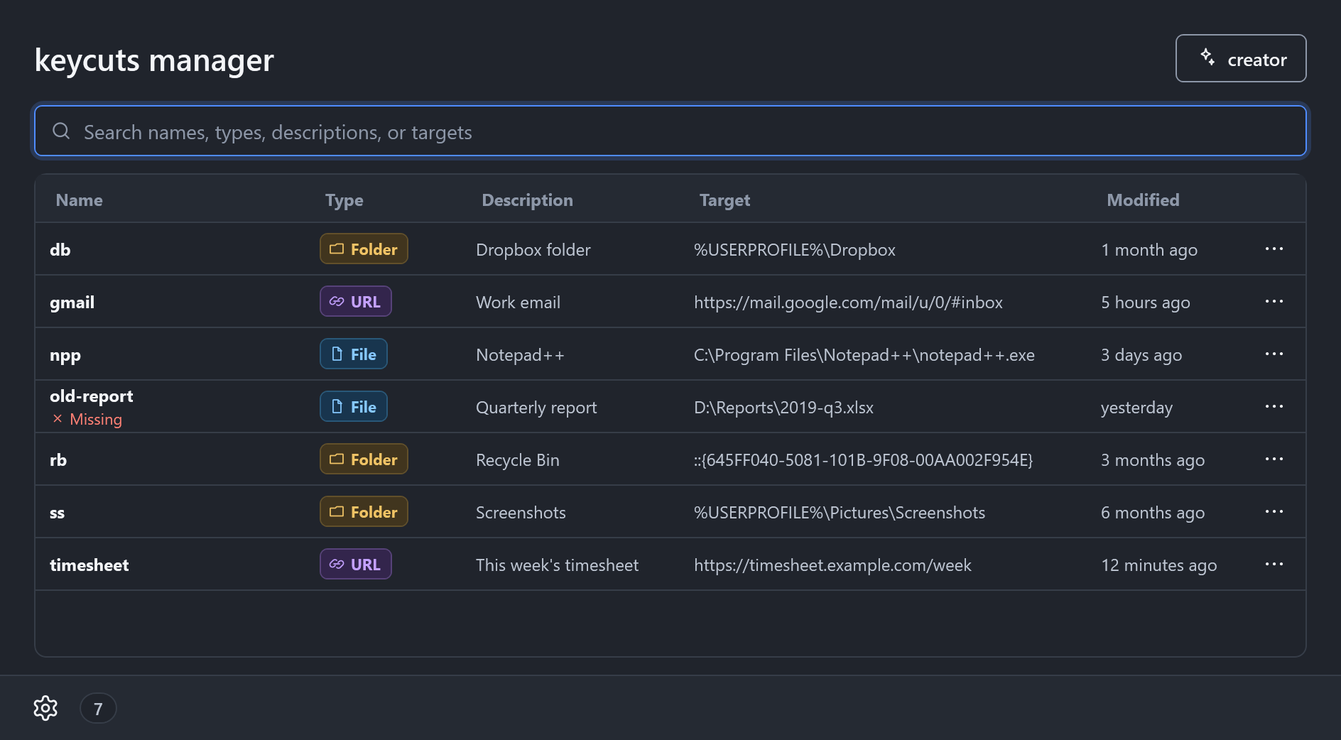
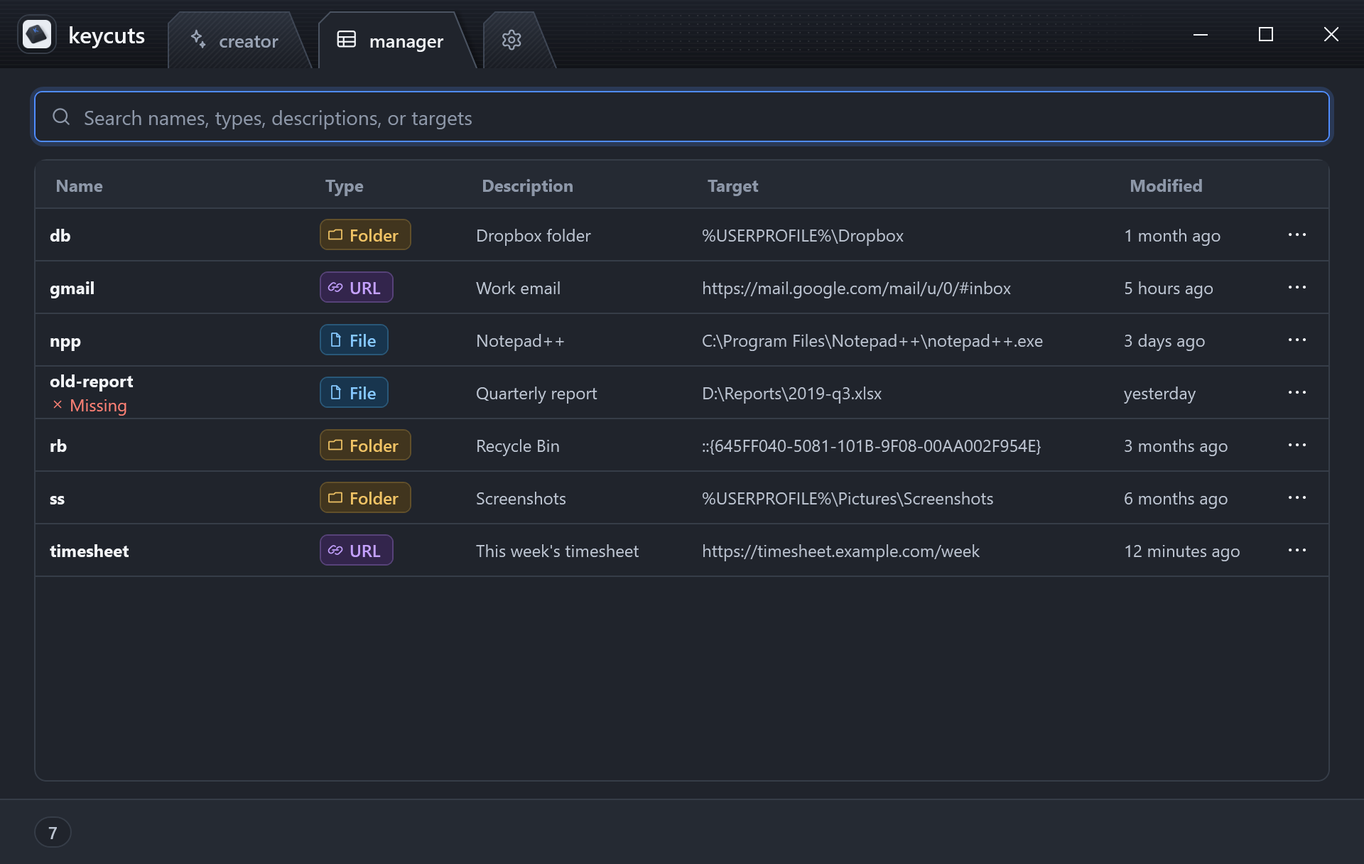
Docs and screenshots for Settings as a screen (#218)
The README, CLAUDE.md and the style guide describe Settings as a screen with no
Save button. The screenshots show each screen under the tab bar.

diff --git a/CLAUDE.md b/CLAUDE.md
@@ -18,7 +18,7 @@ Entry points for creating one: the WPF app (drag/paste/browse a target, name it,
 - On macOS/Linux: `dotnet build keycuts.sln -p:EnableWindowsTargeting=true` and `EnableWindowsTargeting=true dotnet format ...` work, but the tests can't run there (the test host needs the WPF runtime), so CI is the test run.
 - Format check: `dotnet format keycuts.sln --verify-no-changes --severity error` (keep it clean; without `--severity error` it also reports baseline warnings and exits non-zero)
 - Installer: `pwsh -File tools/Build-Installer.ps1 [-Version x.y.z] [-Runtime win-x64|win-arm64]` (the version defaults to `Directory.Build.props`, the runtime to `win-x64`) publishes self-contained to `artifacts/publish/<runtime>` and builds `artifacts/installer/<runtime>/keycuts-setup-<arch>.msi`. Each runtime has its own folders, so building one keeps the other; the WiX build is `--no-incremental` because both share `installer/obj`. Both MSIs share the upgrade code and `AllowSameVersionUpgrades`, so installing one replaces the other. Needs only the .NET SDK; WiX restores from NuGet. `installer/` is deliberately not in `keycuts.sln`, so normal builds stay fast. WiX builds into `en-US/` because of `Package.en-us.wxl`; the script moves the output back up. **Don't install a local MSI over a same-version release without checking the bundled .NET runtime.** The release MSI carries the runtime its CI image had (10.0.8 on 2026-11-12), the local build carries your SDK's (10.0.7), and over the release the install ended "successful" with 22 of 258 files: the newer runtime files were gone and the app host said "You must install .NET Desktop Runtime" (Windows Installer keeps a newer file over an older one, and the old product's removal then deletes it, as far as the logs and the file versions show). Compare `hostfxr.dll` in the two, uninstall the release first, or repair with `msiexec /fa <msi>`, which fixed it.
-- Screenshots: `pwsh -File tools/New-Screenshots.ps1` rewrites `docs/images` (the README's screenshots and its walkthrough GIF; `GifWriter`, in the test project, encodes the GIF, so nothing is downloaded). The GIF is the real creator taken through its states, rendered, not a screen recording, so its Win+R step is a caption card; don't present it as footage. It runs `ScreenshotTests` in Release, which renders the real views off screen with sample keycuts, light and dark, so it doesn't touch the keycuts folder, the registry or PATH. Settings is shown without its version row, the version and Check now (`SettingsViewModel.ShowVersionRow = false`), so a version bump changes no image. The test does nothing unless `KEYCUTS_SCREENSHOTS_OUT` is set (the script sets it), so a normal test run never writes. **Do this when preparing a release**, and when a change moves a screenshotted view; look at the images, then commit only what visibly changed (a rare run can differ in a pixel or two, for instance in the text caret; leave those out).
+- Screenshots: `pwsh -File tools/New-Screenshots.ps1` rewrites `docs/images` (the README's screenshots and its walkthrough GIF; `GifWriter`, in the test project, encodes the GIF, so nothing is downloaded). The GIF is the real creator taken through its states, rendered, not a screen recording, so its Win+R step is a caption card; don't present it as footage. It runs `ScreenshotTests` in Release, which renders the real views off screen with sample keycuts, light and dark, each under the tab bar with its tab selected (`HostWithTabs`; not the main window itself, whose own view models would read the real PATH), so it doesn't touch the keycuts folder, the registry or PATH. Settings is shown without its version row, the version and Check now (`SettingsViewModel.ShowVersionRow = false`), so a version bump changes no image. The test does nothing unless `KEYCUTS_SCREENSHOTS_OUT` is set (the script sets it), so a normal test run never writes. **Do this when preparing a release**, and when a change moves a screenshotted view; look at the images, then commit only what visibly changed (a rare run can differ in a pixel or two, for instance in the text caret; leave those out).
 - Mockups: `pwsh -File tools/Render-Mockup.ps1 -Html docs/mockups/<file>.html [-Out <png>]` renders a hand-written HTML sketch to PNG with the Edge or Chrome already installed (see `docs/mockups/`); a design change is sketched and approved this way before it is built.
 - Icons: `pwsh -File tools/New-AppIcons.ps1` rewrites `assets/icons` (see its README): each icon as a 16-256 px `.ico`, a PNG per size and a 1024 px PNG, drawn by `tools/icons/app-icon.html` with the keycap renderer `tools/icons/keycap.js` in headless Edge or Chrome (nothing downloaded) and cut up and packed by the script. Look at the PNGs (`app-icon.html?preview` shows every size on light and dark) and commit what changed; the app embeds five of the `.ico` files from there.
 
@@ -41,7 +41,7 @@ Gotchas:
 Four SDK-style projects in `keycuts.sln` (the old `keycuts.Batmanager` app was retired, and its manager is now a view inside the GUI; the `keypaste` project became `keycuts paste`, #97):
 
 - `keycuts.Common`: all domain logic, no UI. Resolves `.lnk` files through late-bound `WScript.Shell` COM (`Type.GetTypeFromProgID`), so there is no COM reference in the csproj.
-- `keycuts.GUI`: WPF, single window with two views (Creator, Manager) driven by `ViewModels/` (`ShellViewModel` switches views). The window has no Windows title bar (#218): its top row is `Views/RailView`, a bar of folder tabs (creator, manager, and the settings gear, which still opens the dialog until its screen lands) with our own minimize, maximize and close buttons. `WindowChrome` (`MainWindow.xaml`) makes the bar a caption, so drag, double click, snap and the window menu are Windows's; the tabs and caption buttons are `IsHitTestVisibleInChrome`. Things it needed that `WindowChrome` alone doesn't give, each found by asking the real window `WM_NCHITTEST` in `TabbedWindowTests`: `WindowCaptionHook` answers `HTMAXBUTTON` over our maximize button (Windows 11 shows snap layouts only then; the button's hover and press then come from non-client messages, `CaptionButtonState`; it only claims the point while maximize is enabled); the resize border is 0 on the fixed-size Creator (else WindowChrome shows resize cursors at its edge) and `WindowLayout.GetFrameThickness` on the Manager; a maximized window overhangs the work area by that frame thickness (8 at 100%, `SystemParameters.WindowResizeBorderThickness` is only 4), so `MainWindow.FitMaximizedWindow` pads the content and grows `CaptionHeight` by it. The tab list is a `RailTabControl` (a `TabControl` with only its headers in the template, so screen readers get a real tab list; Ctrl+Tab and Ctrl+Page Up/Down are left out, since #218 declined tab shortcuts). A selected tab's shadow is its own shape (`Shadow` in `RailTabItem`): an effect set from a trigger is shared by every tab and can't be frozen with a palette color in it, which fails across test threads. In tests the tab bar's names are in `RailView`'s name scope, so `Window.FindName` can't see them; and a `TabItem` gets its UI Automation peer from the tab list's peer, not `CreatePeerForElement`. Side-effects go through `IKeycutActions` so view models are testable. `Themes/` holds tokens, light/dark/high-contrast dictionaries and `ThemeManager`; `Controls/` has `Icon`, `TypeBadge`, `MenuButton`, `SortHeaderButton`, `SectionLabel` and `HelperText`. The look follows `docs/styleguide.md`: views use its tokens and the shared styles in `Themes/Controls.xaml` (`Heading`, `FieldLabel`, `SquareButton`, `DialogFooter`, `OverlaySheet`, `CardItem`...), never a literal size or color, and `StyleGuideTests` checks every XAML file that isn't on its `NotYetConverted` list (#219); take a file off that list once it follows the guide. Settings is a modal dialog (`SettingsWindow`) over `SettingsViewModel`, with no Cancel button: Escape closes it without saving through `OnKeyDown` (#192), like the close button; `RunnerSettingsStore` is its seam over `Settings`/`Runner`, and its toggles use the `ToggleSwitch` style. The Manager's Edit form (#180) is another modal dialog (`EditWindow` over `EditKeycutViewModel`), opened through `ManagerViewModel.ShowEditForm`, which the view sets, so tests fake it.
+- `keycuts.GUI`: WPF, single window with three screens (Creator, Manager, Settings) driven by `ViewModels/` (`ShellViewModel` switches them; `ShellMode`). The window has no Windows title bar (#218): its top row is `Views/RailView`, a bar of folder tabs (creator, manager, and the settings gear) with our own minimize, maximize and close buttons. `WindowChrome` (`MainWindow.xaml`) makes the bar a caption, so drag, double click, snap and the window menu are Windows's; the tabs and caption buttons are `IsHitTestVisibleInChrome`. Things it needed that `WindowChrome` alone doesn't give, each found by asking the real window `WM_NCHITTEST` in `TabbedWindowTests`: `WindowCaptionHook` answers `HTMAXBUTTON` over our maximize button (Windows 11 shows snap layouts only then; the button's hover and press then come from non-client messages, `CaptionButtonState`; it only claims the point while maximize is enabled); the resize border is 0 on the fixed-size Creator (else WindowChrome shows resize cursors at its edge) and `WindowLayout.GetFrameThickness` on the Manager; a maximized window overhangs the work area by that frame thickness (8 at 100%, `SystemParameters.WindowResizeBorderThickness` is only 4), so `MainWindow.FitMaximizedWindow` pads the content and grows `CaptionHeight` by it. The tab list is a `RailTabControl` (a `TabControl` with only its headers in the template, so screen readers get a real tab list; Ctrl+Tab and Ctrl+Page Up/Down are left out, since #218 declined tab shortcuts). A selected tab's shadow is its own shape (`Shadow` in `RailTabItem`): an effect set from a trigger is shared by every tab and can't be frozen with a palette color in it, which fails across test threads. In tests the tab bar's names are in `RailView`'s name scope, so `Window.FindName` can't see them; and a `TabItem` gets its UI Automation peer from the tab list's peer, not `CreatePeerForElement`. Side-effects go through `IKeycutActions` so view models are testable. `Themes/` holds tokens, light/dark/high-contrast dictionaries and `ThemeManager`; `Controls/` has `Icon`, `TypeBadge`, `MenuButton`, `SortHeaderButton`, `SectionLabel` and `HelperText`. The look follows `docs/styleguide.md`: views use its tokens and the shared styles in `Themes/Controls.xaml` (`Heading`, `FieldLabel`, `SquareButton`, `DialogFooter`, `OverlaySheet`, `CardItem`...), never a literal size or color, and `StyleGuideTests` checks every XAML file that isn't on its `NotYetConverted` list (#219); take a file off that list once it follows the guide. Settings is the third screen (#218), `Views/SettingsView` over `SettingsViewModel`, made fresh by the shell's `settingsFactory` each time it opens (`App.xaml.cs` wires the pickers, `ThemeManager.SetPreference` and the restore-defaults confirmation; tests pass fakes, and a shell without a factory can't open Settings). There is no Save button: every toggle, the theme and the icon are stored the moment they change (`Store`, which writes everything with the folder as last committed), and the output folder only when committed (`CommitOutputFolder`: Enter, leaving the box, or a pick from the folder button) after validation, so a half-typed folder never reaches a toggle's save. A partial failure (PATH, the menu) shows as `SaveError`. The view model's `Stored`, `OutputFolderChanged`, `ShowWelcomeRequested` and `UpdateChecked` events are how the shell keeps the creator's environment-variables preview, the count and the update line in step; that used to happen when the dialog closed. **restore defaults** (`Settings.Defaults()`, `Settings.DefaultAppIcon`) asks in `ConfirmWindow` (`ConfirmViewModel.ForRestoreDefaults`), never touches the output folder (or PATH) and stores once. Escape on Settings closes the icon picker if it is open, else returns to the creator (`ShellViewModel.HandleEscape`), since nothing there is unsaved. The window gives Settings MainWidth and its content's height, capped to the work area (`MaxHeight`), so the page scrolls on a short screen; only the Manager's size is remembered. `RunnerSettingsStore` is its seam over `Settings`/`Runner`, and its toggles use the `ToggleSwitch` style. In tests, its names are in the view's name scope (the tests host it in a `SettingsHost` window). The Manager's Edit form (#180) is another modal dialog (`EditWindow` over `EditKeycutViewModel`), opened through `ManagerViewModel.ShowEditForm`, which the view sets, so tests fake it.
 - `keycuts.CLI`: assembly is named **`keycuts.exe`**, not `keycuts.CLI.exe`. Uses CommandLineParser 2.9.1 with two verbs: `create` (`Options`, the default verb, so `keycuts -t … -s …` needs no verb name; the target option was `-d`/`--destination` until #195 renamed it, and the old spelling is rejected, not aliased) calls `Runner` directly and has no description option; `paste <name>` (`PasteOptions`, #97, formerly the `keypaste` project) runs `KeycutPaste.Run` in Common and sets the clipboard through Win32 (`WindowsClipboard`), so nothing in the solution uses WinForms. PATH gets only the install folder's `bin\` (`BINFOLDER` in `installer/Package.wxs`, harvested separately from the rest), never the install folder itself, which would put the self-contained runtime's DLLs and `createdump.exe` on PATH; this is VS Code's `bin\code.cmd` pattern. It holds two shims from `keycuts.CLI/shims/` (copied to `bin\` by a `Link`): `keycuts.cmd` (`@"%~dp0..\keycuts.exe" %*`) and `keypaste.cmd` (`... paste %*`), so `keypaste <name>` still works. A bare `keycuts` (no arguments) starts `keycuts.GUI.exe` from the same folder (`GuiLauncher`), so Win+R opens the app; any argument keeps it the CLI, and a CLI-only copy with no GUI beside it prints help as before. `Usage` builds the help: `-h`/`--help` and `--version` print to stdout and exit 0, and a parse error or a create missing `-d`/`-s` prints a short reason to stderr and exits `BadArguments` (1). `keycuts.exe` can't move into `bin\` itself: a self-contained apphost needs its runtime in its own folder. `.gitattributes` keeps the shims CRLF.
 - `keycuts.Tests`: references Common and GUI; covers creation, repository, resolver, view models, accessibility, sample data.
 
@@ -59,7 +59,7 @@ The newer code wraps the legacy code rather than replacing it. Every create ends
 ## Surprises and known landmines
 
 - **The Missing mark (#203)** means "a specific path was looked for and isn't there"; anything the check couldn't pin down stays Unknown, which shows no label. `KeycutRepository.CheckTargetsAsync` looks for `Keycut.Program` (the target when that is empty), with environment variables expanded, and records what it looked for on `Keycut.CheckedPath`, which the tooltip shows (`Not found: C:\Program Files (x86)\...`). A program with no folder (`chrome`, `notepad.exe`) is looked for the way Windows looks, through `NameConflicts.Find` (Windows folder, System32, machine then user PATH with every PATHEXT extension, App Paths). For `START "" /D "<folder>" <program>` (`Keycut.StartInFolder` and `ProgramName`, kept apart from the joined `Program`) the rule comes from experiments with a harmless program, through `cmd /c file.bat` and ShellExecute alike (`KeycutRepository.CheckStartIn`): the `/D` folder is searched when it exists; a program found by name in the Windows folder, System32 or PATH works only if the folder exists, since START stops with "The current directory is invalid"; a program only in App Paths works whatever the folder is, because START hands a name it can't resolve itself to ShellExecute, which finds it there and does without the working directory. So a launcher naming a `Program Files (x86)` folder that doesn't exist still works for Chrome, which registers itself in App Paths, so the Chrome launchers aren't Missing: with a start-in folder that doesn't exist they get `TargetStatus.Warning`, a yellow "Warning" marker (`WarningBrush`, a dark amber in Light) whose tooltip is `Keycut.CheckedDetail`. A program found by name with a missing folder is Missing even when App Paths has it too (checked: the search by name comes first, and START stops). Missing is "none of those finds it, or START can't get it started", and `Keycut.CheckedDetail` says what was searched. A program given as a full path (with or without `/D`) isn't searched for, so it stays a plain exists check; `KeycutRepository`'s optional third constructor argument is that lookup environment, so tests never read the real PATH or registry, and it is read once per run and only when a keycut has a bare name. Text that can't be a path (a quote, a wildcard, `<`, `>`, `|`; note `Path.GetInvalidPathChars()` lacks the quote in .NET), and a bare name whose extension PATHEXT doesn't list, are Unknown. A File's type stays File whatever its arguments.
-- **Name warnings (#153).** `NameConflicts.Find` (pure, every input injectable through `NameConflictEnvironment`) lists what else a name opens from Win+R, in `ShellExecuteEx` order: the Windows folder, System32, machine then user PATH (each with every PATHEXT extension), then App Paths. A match before the output folder hides the keycut, one after it is shadowed; the keycut's own `.bat` is skipped, and an output folder not on PATH counts as the last entry. `NameCheck.Run` adds the existing keycut, but only while "Ask before replacing a keycut" is on. The GUI asks in `ConfirmWindow` (built like `SettingsWindow`, apart from its width; a test compares them) through `CreatorViewModel.ConfirmName` and `ManagerViewModel.ConfirmRename`; the CLI asks through `CreateConfirmation.Decide` and exits `ConfirmationNeeded` (14) with redirected input. The setting is `AskBeforeReplacing` in `HKCU`; until it's saved, the old `ForceOverwrite` value decides, inverted (`RegistryStuff.ResolveAskBeforeReplacing`).
+- **Name warnings (#153).** `NameConflicts.Find` (pure, every input injectable through `NameConflictEnvironment`) lists what else a name opens from Win+R, in `ShellExecuteEx` order: the Windows folder, System32, machine then user PATH (each with every PATHEXT extension), then App Paths. A match before the output folder hides the keycut, one after it is shadowed; the keycut's own `.bat` is skipped, and an output folder not on PATH counts as the last entry. `NameCheck.Run` adds the existing keycut, but only while "Ask before replacing a keycut" is on. The GUI asks in `ConfirmWindow` (built from the shared dialog styles, which a test checks) through `CreatorViewModel.ConfirmName` and `ManagerViewModel.ConfirmRename`; the CLI asks through `CreateConfirmation.Decide` and exits `ConfirmationNeeded` (14) with redirected input. The setting is `AskBeforeReplacing` in `HKCU`; until it's saved, the old `ForceOverwrite` value decides, inverted (`RegistryStuff.ResolveAskBeforeReplacing`).
 
 - `ShortcutType.Command` is still never produced by a create: `Shortcut.GetShortcutTypeFromTarget` never returns it. The emitter writes `START "" /B cmd /C "<command>"` for it, which the regex fallback reads back as Command (`IsEmittedCommand`, an exact inverse tried before the unanchored Explorer patterns). A `START "" /B "<anything>"` line still reads as File, because File is tried before Command.
 - The emitter's launch line (`Runner.BuildCommand`) is a `switch` with no discard arm, so adding a `ShortcutType` without a case is a build error (CS8509). `Unknown` throws.
@@ -70,7 +70,7 @@ The newer code wraps the legacy code rather than replacing it. Every create ends
 - **Nothing needs elevation.** Context-menu verbs live in `HKCU\Software\Classes` (`ContextMenuRegistrar`, handler resolved from `AppContext.BaseDirectory`). Never write through `Registry.ClassesRoot`: it resolves to `HKLM` for these keys, and that write crashed the Settings window. The MSI writes the same keys in `installer/Package.wxs`, and a test compares the two lists.
 - The Settings toggle shows whether the verbs exist, not the `RightClickContextMenu` value. That value only records the user's choice, so an MSI upgrade doesn't re-add a menu they turned off.
 - The first-run welcome panel (`WelcomeViewModel`, on `CreatorViewModel.Welcome`) decides once, from the shell's first keycut count: it shows when `WelcomeDismissed` is unset in `HKCU` (the first run, upgrades included) or the folder is empty, and Settings → Show welcome calls `ShellViewModel.ShowWelcome`. It has no form of its own (#213): it offers three bubbles (`WelcomeExample`: `g` for google.com, `dl` for the Downloads folder, `kc` for keycuts itself, in that order; the app's own path is `Environment.ProcessPath`, so a Debug run makes one to the Debug exe; the name is `kc`, not `keycuts`, which would clash with the CLI's command on PATH), and a bubble puts its full target (a bare program name isn't a target the resolver accepts) and name in `CreatorViewModel`'s own fields and focuses Name, for the creator's Create button to make. When the panel opens, `CreatorViewModel` picks the first bubble, but only into an empty form, so a target the Explorer verb passed in stays; a bubble the user clicks replaces the fields. Got it clears the fields only if a bubble filled them. After any create while the panel shows, `CreatorViewModel` calls `WelcomeViewModel.OnKeycutCreated`, which marks the welcome as used and shows how to open the keycut; none of the panel's messages names the keycut. It is wired up only in `App.xaml.cs`; tests pass fakes for the HKCU read/write and a `CreatorViewModel` without one shows no panel. GUI creates never change PATH, so after a create the panel checks `UserPathUpdater.IsOnPath` for the output folder (registry user and machine PATH, as Win+R sees them) and offers **Add to PATH** if needed; with the Debug `KEYCUTS_OUTPUT_FOLDER` override it skips that check, so it never writes PATH.
-- **The app icon (Settings, Icon).** Seven choices (`AppIconChoice` in Common, saved by name as `AppIcon` in `HKCU`; an unknown value is the default): Black & White (Porcelain in light mode, Onyx in dark) and Accent (Cobalt in light, Twilight in dark) follow the theme, the rest never change, and Classic is the old Team Ralon icon. `Themes/AppIcons` holds the options and their names and descriptions (the owner's wording; a test pins them), and `AppIconManager` sets `Window.Icon` on every window as it loads and again when `ThemeManager.Applied` changes the drawing, so the title bar, the taskbar button and Alt+Tab follow at once (checked on Windows 11: a running, unpinned button redraws). High contrast picks light or dark by its window color. Unlike the rest of Settings, a pick applies and is saved at once (`IAppIconService`; tests pass a fake or get `InMemoryAppIconService`), so Escape and closing undo nothing. The picker is an overlay in `SettingsWindow` that disables the rest of the window while open (Tab stays in it, Enter can't press Save); its group style drops the stock 5 px indent, without which the second card of a row wraps. The exe's own icon (Explorer, Installed apps) and the MSI's are Porcelain and can't change at run time. The shortcuts can: `ShortcutIcons.PointAt` rewrites the icon of every `.lnk` in the Start menu, the desktop and the pinned-taskbar folder whose target is the running exe (so a Debug build never touches the installed app's) to `icons\<name>.ico` beside the exe, then calls `SHChangeNotify`; Windows may take a while to redraw a pinned button, and nothing restarts Explorer or clears the icon cache. It runs at start too, so a shortcut an upgrade recreated gets the icon back. Tests make their own `.lnk` files in a temp folder.
+- **The app icon (Settings, Icon).** Seven choices (`AppIconChoice` in Common, saved by name as `AppIcon` in `HKCU`; an unknown value is the default): Black & White (Porcelain in light mode, Onyx in dark) and Accent (Cobalt in light, Twilight in dark) follow the theme, the rest never change, and Classic is the old Team Ralon icon. `Themes/AppIcons` holds the options and their names and descriptions (the owner's wording; a test pins them), and `AppIconManager` sets `Window.Icon` on every window as it loads and again when `ThemeManager.Applied` changes the drawing, so the title bar, the taskbar button and Alt+Tab follow at once (checked on Windows 11: a running, unpinned button redraws). High contrast picks light or dark by its window color. Like every setting since #218, a pick applies and is saved at once (`IAppIconService`; tests pass a fake or get `InMemoryAppIconService`), so Escape and closing the picker undo nothing. The picker is an overlay in `SettingsView` that disables the page while open (Tab stays in it), and the tabs too (`ShellViewModel.AreTabsEnabled`), but not the caption buttons or dragging; its group style drops the stock 5 px indent, without which the second card of a row wraps. The exe's own icon (Explorer, Installed apps) and the MSI's are Porcelain and can't change at run time. The shortcuts can: `ShortcutIcons.PointAt` rewrites the icon of every `.lnk` in the Start menu, the desktop and the pinned-taskbar folder whose target is the running exe (so a Debug build never touches the installed app's) to `icons\<name>.ico` beside the exe, then calls `SHChangeNotify`; Windows may take a while to redraw a pinned button, and nothing restarts Explorer or clears the icon cache. It runs at start too, so a shortcut an upgrade recreated gets the icon back. Tests make their own `.lnk` files in a temp folder.
 - **Update check (#171).** `UpdateChecker` (Common) asks `GitHubReleaseSource` for `/releases/latest` at most once a day on GUI start (`UpdateNoticeViewModel.CheckOnStartupAsync`, after the window shows) and stores the result in `HKCU` (`LastUpdateCheck`, `LatestReleaseSeen`, `DismissedRelease`), so the footer line shows on every start, not only after a request. `LatestReleaseSeen` is one `REG_MULTI_SZ` (line 1 the version, line 2 the URL), because one `SetValue` is atomic and two values could mix two releases across app windows (#191); it holds what GitHub last reported, never the installed version (that is `Runner.Version`, and the MSI's Uninstall entry). A value that isn't exactly two non-empty lines counts as never checked. The pre-#191 `LatestVersion`, `LatestReleaseUrl` and `DismissedUpdateVersion` are never read; writing either new value deletes them (`RegistryStuff.LegacyUpdateKeyNames`). Versions compare by three parts (`UpdateChecker.Normalize`): `Runner.Version` has four, and `1.2.0 < 1.2.0.0` in .NET. The release URL is opened in the browser, so anything that isn't an https page of this repository (`GitHubReleaseSource.IsReleasePage`) becomes the releases page. GitHub rejects API calls without a `User-Agent`. The CLI never checks. Tests use `FakeReleaseSource` and `FakeUpdateState` (`UpdateFakes`); never `UpdateChecker.CreateDefault()`, which reaches the network and `HKCU`.
 - Windows 11 shows these classic verbs under "Show more options". The top-level menu needs a packaged `IExplorerCommand` handler.
 - `OUTPUTFOLDER` in `installer/Package.wxs` is a directory so the stock `InstallDirDlg` can edit it, which means Windows Installer stores it with a trailing backslash; `RegistryStuff.GetOutputFolder` trims that. The dialog only shows on a first install. Windows Installer has no standard directory for the profile, so the default comes from `[%USERPROFILE]`; a test compares it to `Runner.DefaultOutputFolder`.

diff --git a/docs/styleguide.md b/docs/styleguide.md
@@ -2,7 +2,7 @@
 
 How the keycuts app looks and reads: spacing, layout, type, color, control sizes, corner radii, icons, headings and accessibility, and writing. It covers every screen and dialog: the main window's tab bar and its three screens (the Creator, the Manager and Settings, with its icon picker), the Edit and Confirm dialogs, the shared footer and the welcome panel.
 
-**It describes the app as it will be after #218**, which makes Settings a third screen in the main window, behind folder tabs that replace the title bar. Rules for the Settings dialog, the screen headings and the footer's gear apply until #218 removes them; the [Tabbed window](#tabbed-window-218) section says what changes. #218's mockup (`window-tabs-v5`) is a picture of the layout; where its sizes, colors or type differ from this guide, the guide wins.
+**It describes the app after #218**, which made Settings a third screen in the main window, behind folder tabs that replace the title bar; the [Tabbed window](#tabbed-window-218) section describes them. #218's mockup (`window-tabs-v5`) is a picture of the layout; where its sizes, colors or type differ from this guide, the guide wins.
 
 Each rule names the token or shared style that carries it. A view uses those, never a literal number, font size or color. Where the app doesn't follow a rule yet, #219 lists the change (see [Tracking](#tracking)).
 
@@ -96,7 +96,7 @@ Every screen and dialog body has **16 at the top and 24 at the sides and bottom*
 
 ### Dialog footer
 
-Edit and Confirm end in the same footer, one shared style, `DialogFooter`: `SurfaceSubtleBrush` background, a 1px top border in `BorderBrush`, `Padding="24,12"` (`DialogFooterPadding`), buttons right-aligned with 8 between them. The primary button is **last, at the far right**, and cancel comes before it ([decision](#decisions)). A secondary action that isn't cancel sits at the left edge. Enter presses the primary button (`IsDefault`) and Escape cancels (`IsCancel`). Until #218, the Settings dialog uses it too, with show welcome at the left and save at the right. The body above the footer scrolls when the window is capped to the screen, and the footer never does.
+Edit and Confirm end in the same footer, one shared style, `DialogFooter`: `SurfaceSubtleBrush` background, a 1px top border in `BorderBrush`, `Padding="24,12"` (`DialogFooterPadding`), buttons right-aligned with 8 between them. The primary button is **last, at the far right**, and cancel comes before it ([decision](#decisions)). A secondary action that isn't cancel sits at the left edge. Enter presses the primary button (`IsDefault`) and Escape cancels (`IsCancel`). The body above the footer scrolls when the window is capped to the screen, and the footer never does.
 
 ### Window widths
 
@@ -104,13 +104,9 @@ Edit and Confirm end in the same footer, one shared style, `DialogFooter`: `Surf
 - **The Manager**: resizable, and remembers its size.
 - **Confirm**: 440 (`ConfirmWidth`); **Edit**: 480 (`EditWidth`). They keep their widths while the main window grows ([decision](#decisions)). Dialogs size to their content's height (`SizeToContent="Height"`) and can't be resized.
 
-Until #218 the main window is 440 and the Settings dialog 500.
-
 ### The app footer
 
 All three screens end in `FooterView`. It is 48 high at least (`MinHeight`, today 46), with `Padding="24,0"` and a top border in `BorderBrush`, on `SurfaceSubtleBrush`. Left to right: the count pill, the screen's message (the Manager's undo and status line), and the update line, right-aligned. Gaps are 8 between controls and 12 before the message.
-
-Until #218, the footer starts with the Settings gear (a 32 ghost button) and its padding is 16, so the gear's glyph, 6 inside its button, lines up with the content at about 24.
 
 ### Inset panels
 
@@ -228,7 +224,7 @@ In `Controls.xaml`, used by every window. Window-local copies (`SectionLabel` in
 | Text box | 36 high | `AppTextBox`, `InputHeight` (views stop setting `Height="38"`) |
 | Text button (primary or secondary) | 36 high, `Padding="12,0"` | `BaseButton`, `ControlHeight` |
 | Icon-only button with a border or fill, beside a text box or in the drop area (Create, Browse, and Settings' choose a folder and open the output folder, which never show text; [decision](#decisions)) | 36 × 36 | `SquareButton` (new, based on `SecondaryButton`/`PrimaryButton`), `ControlHeight` |
-| Ghost icon button (no border: dismiss, sheet close, row menu; the footer's Settings until #218) | 32 × 32 | `IconButton`, `IconButtonSize` |
+| Ghost icon button (no border: dismiss, sheet close, row menu) | 32 × 32 | `IconButton`, `IconButtonSize` |
 | Text box editing inside a Manager row (rename, description) | 30 high | The **only** 30; it has to fit a 36 row |
 | Manager table: header / row | 36 / 36 (40 if a name plus a 12px marker doesn't fit; #219 checks) | `ManagerTable` |
 | Menu item: one line / two lines (Browse menu) | 32 / 48 min | `AppMenuItem`, `BrowseMenuItem` |
@@ -266,7 +262,7 @@ Icons are the app's own `controls:Icon` glyphs (`Themes/Icons.xaml`), drawn in t
 | 12 | Beside 12px text: row markers (Missing, Warning), helper-line status icons, the sort chevron, the check badge's tick |
 | 10 | Only the caption buttons' glyphs (Windows' size) |
 | 16 | **The default**: in buttons with text, ghost icon buttons (dismiss, close, the row menu), menu items, list warnings, the tabs (the gear included) |
-| 20 | Square buttons (Create's rocket, Browse, choose a folder, open the output folder), the app icon in the tab bar, the footer's Settings gear until #218, the welcome bubbles' arrow and the welcome helper line |
+| 20 | Square buttons (Create's rocket, Browse, choose a folder, open the output folder), the app icon in the tab bar, the welcome bubbles' arrow and the welcome helper line |
 | 24 | In a 40 icon tile |
 | 32 | In the 56 empty-state illustration |
 
@@ -299,7 +295,7 @@ Follow the Microsoft Writing Style Guide: plain, short, friendly, second person 
 
 ### Capitalization
 
-- **Titles and tabs are lowercase**, in the brand style ([decision](#decisions)): the tabs `creator`, `manager` and `settings` (the gear tab's name and tooltip), and the dialog titles, window title and heading alike: `edit keycut`, and Confirm's `replace keycut`, `name already in use` and `restore defaults`. Until #218, `keycuts creator`, `keycuts manager`, `settings` and the nav buttons `creator` and `manager` are lowercase too. A heading that is a sentence or a question rather than a title, such as Confirm's "Replace “npp”?", is sentence case.
+- **Titles and tabs are lowercase**, in the brand style ([decision](#decisions)): the tabs `creator`, `manager` and `settings` (the gear tab's name and tooltip), and the dialog titles, window title and heading alike: `edit keycut`, and Confirm's `replace keycut`, `name already in use` and `restore defaults`. A heading that is a sentence or a question rather than a title, such as Confirm's "Replace “npp”?", is sentence case.
 - **Button text is lowercase** ([decision](#decisions)), for text buttons and link buttons and their automation names: `cancel`, `save`, `replace`, `create anyway`, `rename anyway`, `check now`, `show welcome`, `restore defaults`, `got it`, `clear search`, `open settings`, `create a keycut`, `undo`, the footer's `download`. Proper names keep their case: `add to PATH`.
 - **Sentence case** for everything else: menu items, labels, setting names, level 2 headings, section labels' source text, tooltips, column headers, messages. Capitalize the first word and proper nouns only: "Edit in Notepad", "Open file location", "Use environment variables in paths".
 - **The words keycuts and keycut are always lowercase**, the app's name and the noun alike, even at the start of a sentence or label ([decision](#decisions)): "keycuts lets you open your apps…", "keycuts 1.4.1 is available", "keycut name", and "keycuts" as the table's automation name. Today "Keycut name" (two automation names) and "Keycuts" (the table) break this.
@@ -389,10 +385,10 @@ Small, mostly invisible changes #219 makes along with the rest (by file):
 - **`ManagerStatusView.xaml`**: Undo padding `6,2` → `8,4`, gap 6 → 8.
 - **`FooterView.xaml`**: min height 46 → 48; count pill padding `9,0` → `8,0`; dismiss glyph 14 → 16; padding 16 → 24 once #218 removes the gear.
 - **`SettingsViewModel.cs`**: the output folder's helper "New keycuts files are saved here." → "New keycuts are saved here."
-- **`SettingsWindow.xaml`** (#218 moves it into a screen; build that screen to these values rather than restyling the dialog): heading gap 22 → 16; section gap 28 → 24; setting-name-to-note gap 2 → 4; toggle and button left margin 20 → 16; save error 14 above → 16; Choose and Open folder become 36 square buttons with 16 → 20 glyphs; the icon button padding 5 → 4; icon picker per the sheet pattern (radius 10 → 12, header margin `18,16,12,8` → `16,16,16,8`, 14 below → 16, card padding 10 → 12 and margins `5,0,5,10` → `4,0,4,8`, the check badge 7 in → 8).
+- **`SettingsWindow.xaml`** (done in #218: the dialog became `Views/SettingsView`, built to these values): heading gap 22 → 16; section gap 28 → 24; setting-name-to-note gap 2 → 4; toggle and button left margin 20 → 16; save error 14 above → 16; Choose and Open folder become 36 square buttons with 16 → 20 glyphs; the icon button padding 5 → 4; icon picker per the sheet pattern (radius 10 → 12, header margin `18,16,12,8` → `16,16,16,8`, 14 below → 16, card padding 10 → 12 and margins `5,0,5,10` → `4,0,4,8`, the check badge 7 in → 8).
 - **`ConfirmWindow.xaml`**: header 18 below → 16, text 14 from the tile → 12; targets box padding `14,12` → 16 and 14 below → 16; second section label 12 above → 12 (kept) and 4 below → 8; warning icons 15 → 16.
 - **`EditWindow.xaml`**: heading gap 20 → 16; label gap 6 → 8; error gap 6 → 4; save error 14 above → 16.
-- **Edit and Confirm** (and Settings until #218): body margin 24 → `PagePadding` (16 at the top); footer `Padding="24,13"` → the shared `DialogFooter` (`24,12`).
+- **Edit and Confirm**: body margin 24 → `PagePadding` (16 at the top); footer `Padding="24,13"` → the shared `DialogFooter` (`24,12`).
 
 ## Tracking
 

diff --git a/README.md b/README.md
@@ -25,7 +25,7 @@ The screenshots follow your GitHub theme; the app follows Windows, or the choice
 
 <picture>
   <source media="(prefers-color-scheme: dark)" srcset="docs/images/creator-dark.png">
-  <img src="docs/images/creator-light.png" alt="The creator, ready to create." width="424">
+  <img src="docs/images/creator-light.png" alt="The creator, ready to create." width="580">
 </picture>
 
 **Manager.** The **manager** tab shows a table you can search and sort by any column, including **Modified**; while a search hides some keycuts, **X of Y shown** appears at the right of the search box. Up/Down, Home/End and Page Up/Page Down move the selection, Enter opens the row, and from the search box Ctrl+E edits it, Ctrl+Shift+E edits it in Notepad, Ctrl+Shift+O shows its file, Ctrl+C copies its target, F2 renames it, Delete deletes it and Ctrl+F searches. Delete and Home/End are the search box's while it holds text, and Ctrl+C while text is selected in it. The `...` menu has **Open**, **Edit**, **Edit in Notepad**, **Open file location**, **Copy target** and **Delete**, each with its key. Missing targets are flagged in red, and a hand-written launcher that still starts but names a start-in folder that doesn't exist gets a yellow warning.
@@ -40,13 +40,13 @@ The screenshots follow your GitHub theme; the app follows Windows, or the choice
 * **Edit** changes the target, name and description. It's offered only for a keycut the app would have written itself; one you've changed by hand says to use **Edit in Notepad**, so your edits are never lost.
 * **Delete** moves the file to the Recycle Bin (drives without one, such as network shares, delete for good). **Undo** (or Ctrl+Z) shows in the footer for a few seconds and restores the file's contents and modified date.
 
-**Settings.** The gear tab in the bar at the top of the window opens it. The output folder, **Ask before replacing a keycut**, the right-click menu (on Windows 11 under **Show more options**), the theme and update checks. **Use environment variables in paths** (off by default) saves paths like `%USERPROFILE%\Desktop`, so a keycuts folder still works on another PC; hold Shift in the Creator to flip it for one keycut.
+**Settings.** The gear tab in the bar at the top of the window opens it, and every change is saved as you make it: there is no Save button. The output folder (saved when you press Enter, leave the box, or pick one with the folder button), **Ask before replacing a keycut**, the right-click menu (on Windows 11 under **Show more options**), the theme and update checks. **Use environment variables in paths** (off by default) saves paths like `%USERPROFILE%\Desktop`, so a keycuts folder still works on another PC; hold Shift in the Creator to flip it for one keycut. **restore defaults** puts every setting back as a new install has it, except the output folder, after asking; **show welcome** brings back the first-run panel. Escape goes back to the creator.
 
 **Icon.** Click the icon in Settings to pick another: **Black & White** (the default) and **Accent** switch with the light and dark theme, and Porcelain, Onyx, Cobalt, Twilight and the original Classic stay the same. A pick applies at once to the window, the taskbar and Alt+Tab, and to the app's Start menu, desktop and pinned taskbar shortcuts (Windows can take a moment to redraw a pinned one). The icons, in every size and with transparent versions, are in [assets/icons](assets/icons).
 
 <picture>
   <source media="(prefers-color-scheme: dark)" srcset="docs/images/settings-dark.png">
-  <img src="docs/images/settings-light.png" alt="The Settings window." width="484">
+  <img src="docs/images/settings-light.png" alt="Settings: the output folder, the toggles, the icon and the theme, saved as you change them." width="580">
 </picture>
 
 **Updates.** When a newer release exists, the footer of both screens says so and **Download** opens the release page. The app checks at most once a day, with one unauthenticated request to GitHub and no telemetry; the CLI never checks. Turn it off in Settings.
